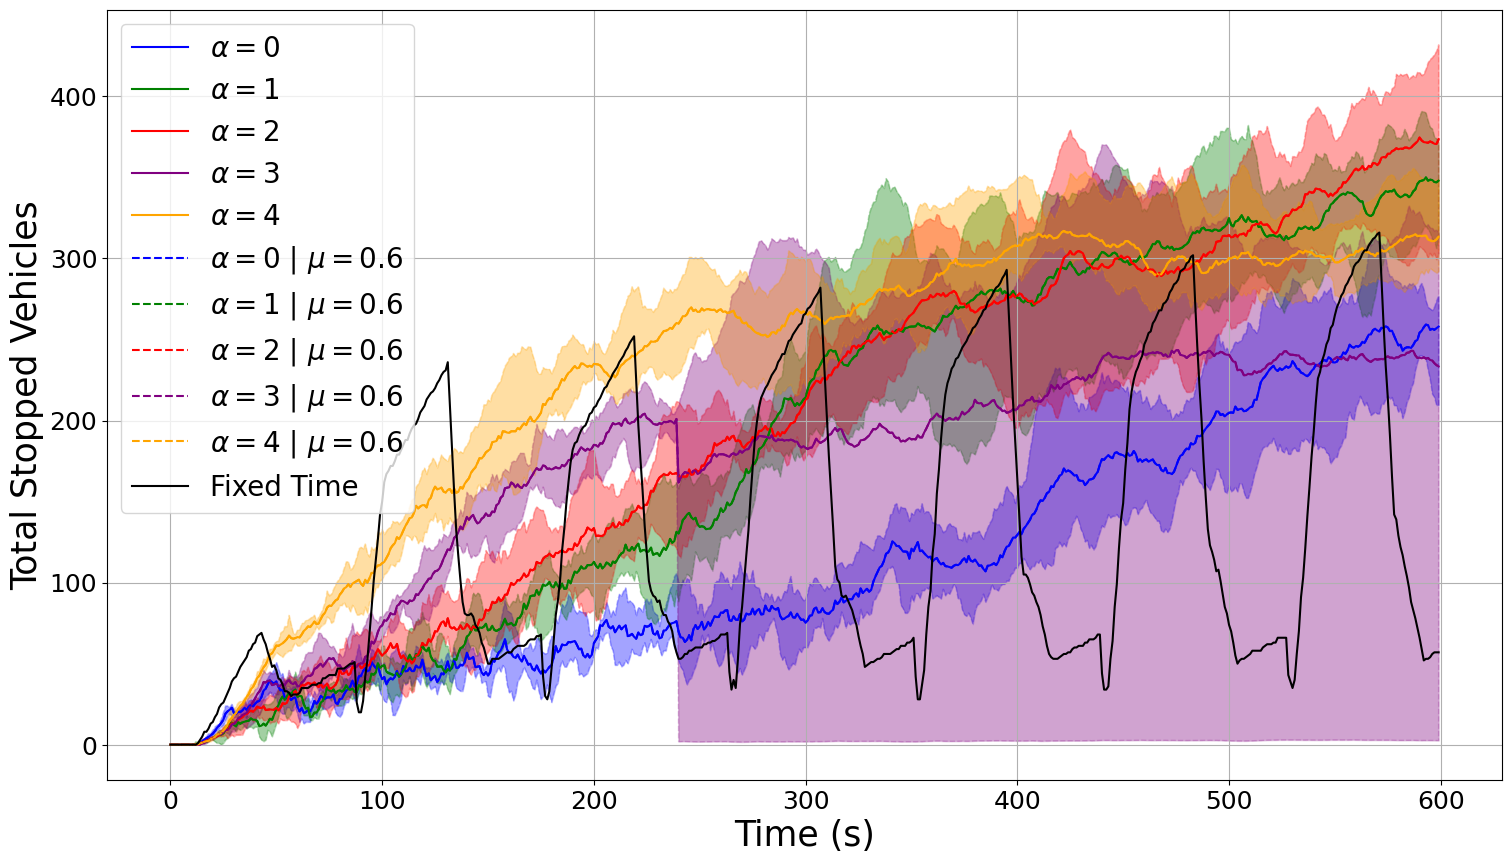
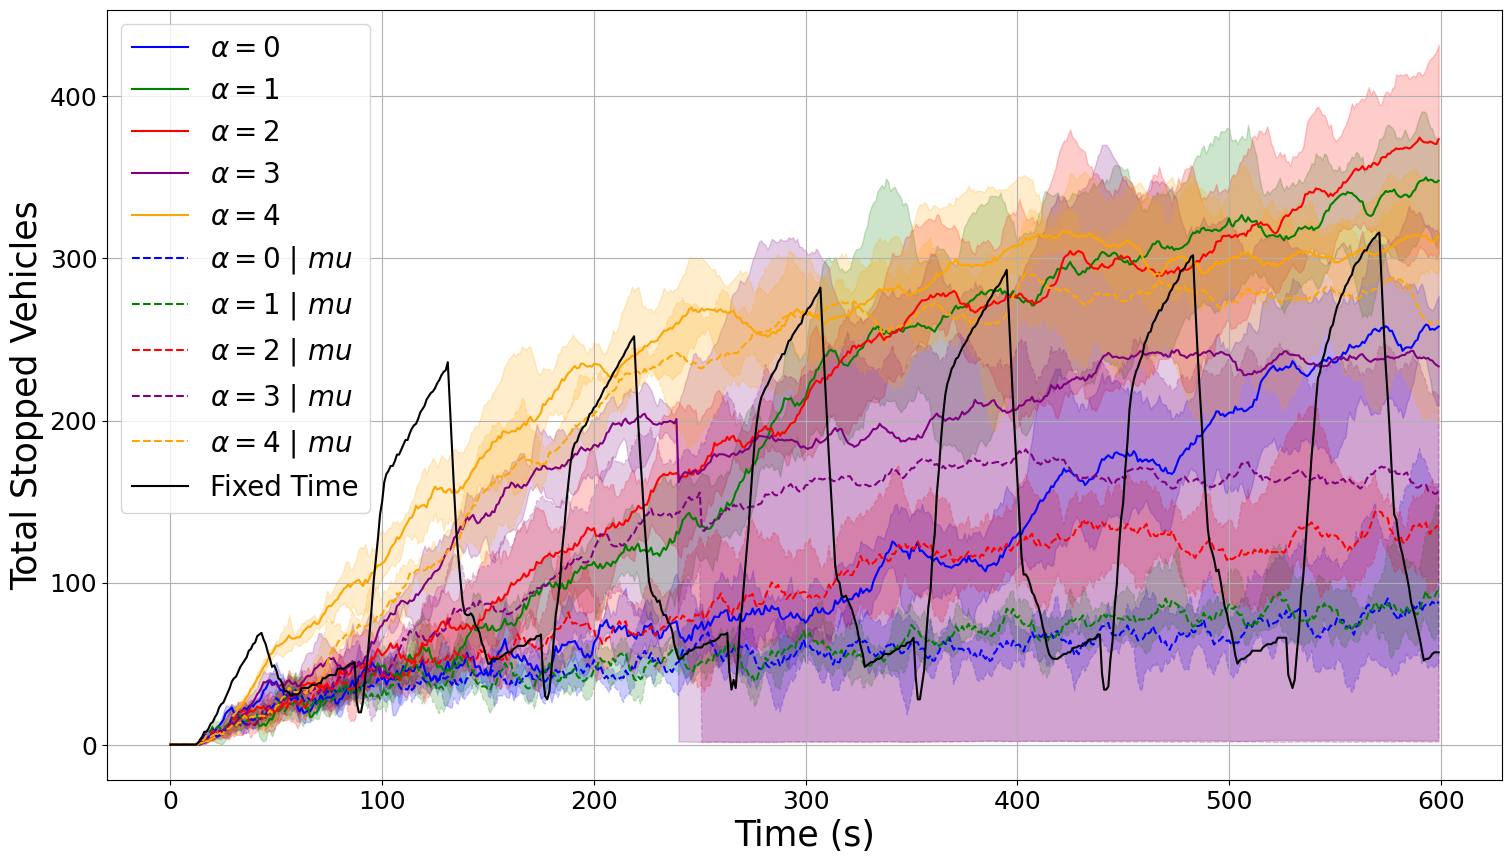
Update plotting scripts and images for improved data visualization and handling

diff --git a/plot.py b/plot.py
@@ -17,11 +17,11 @@ output_parent_path = os.path.dirname(output_path)
 if not os.path.exists(output_parent_path):
     os.makedirs(output_parent_path)
 attack_state = sys.argv[3]
-check_attribute = sys.argv[4]
-check_value = sys.argv[5]
+label = sys.argv[4]
 CWD = os.getcwd()
 DATA_PATH = os.path.join(CWD, f'{path_to_data}')
-DATA_PATH_NEW = os.path.join(CWD, f'{path_to_data}')
+data_new_path = str(DATA_PATH).replace("attacked", "no_attack")
+DATA_PATH_NEW = os.path.join(CWD, f'{data_new_path}')
 attribute_oi = "system_total_stopped"
 def pad_or_truncate(arr, target_length):
     if len(arr) > target_length:
@@ -41,7 +41,7 @@ if __name__ == '__main__':
     # Load and process the original data
     for a in alpha:
         for rep in range(reps):
-            file_name = 'data_{}_alpha_{}_run_{}.csv'.format(attack_state,a, rep)
+            file_name = 'data_{}_alpha_{}_run_{}.csv'.format("attacked",a, rep)
             file_path = os.path.join(DATA_PATH, file_name)
             if not os.path.isfile(file_path):
                 print(file_name)
@@ -57,8 +57,9 @@ if __name__ == '__main__':
     # Load and process the new data from the new folder
     for a in alpha:
         for rep in range(reps):
-            file_name = 'data_{}_alpha_{}_run_{}.csv'.format(attack_state,a, rep)
+            file_name = 'data_{}_alpha_{}_run_{}.csv'.format("no_attack",a, rep)
             file_path_new = os.path.join(DATA_PATH_NEW, file_name)
+            print(file_name)
             if not os.path.isfile(file_path_new):
                 print("sh",file_name)
                 continue
@@ -98,7 +99,7 @@ if __name__ == '__main__':
         lb_new = np.percentile(wt_new[a], 0.25, axis=0)
         ub_new = np.percentile(wt_new[a], 99.75, axis=0)
         mean_new = wt_new[a].mean(axis=0)
-        plt.plot(x_ax, mean_new, '--', color=colors[a], label=r'$\alpha=$'+'{} | $\{} = {}$'.format(a, check_attribute,check_value))
+        plt.plot(x_ax, mean_new, '--', color=colors[a], label=r'$\alpha=$'+'{} | ${}$'.format(a, label))
         plt.fill_between(x_ax, lb_new, ub_new, color=colors[a], alpha=0.2, linestyle='--')
 
     # Plot the fixed data

diff --git a/main.py b/main.py
@@ -26,6 +26,7 @@ from tqdm import tqdm
 
 
 parser = argparse.ArgumentParser()
+np.random.seed(110)
 # Command to run the file: python main.py --noise-added "True"
 script_directory = os.path.dirname(os.path.abspath(__file__))
 parser.add_argument('--net', type=str, default=script_directory + r"/net/4x4.net.xml")
@@ -35,7 +36,7 @@ parser.add_argument("--intersection-id", type=str, default="10")
 parser.add_argument("--num-episodes", type=int, default=5)
 parser.add_argument("--gui", type=bool, default=False)
 parser.add_argument("--noised-edge", type=str, default="CR30_LR_8")
-parser.add_argument("--simulation-time", type=int, default=200)
+parser.add_argument("--simulation-time", type=int, default=1200)
 parser.add_argument("--run-per-alpha", type=int, default=5)
 parser.add_argument("--delta-time", type=int, default=3)
 parser.add_argument("--nu", type=float, default=0.5)
@@ -57,6 +58,7 @@ if args.noise_added:
 else:
     attack_state = "no_attack"
 
+args.simulation_time /= args.delta_time
 # network to edges
 net_prefix = args.net.split('.')[0] + "_plain"
 os.system(f'netconvert -s {args.net} --plain-output-prefix {net_prefix}') # TODO if the net doesn't have . in the name, it will work

diff --git a/plot_all.py b/plot_all.py
@@ -10,6 +10,6 @@ is_windows = platform.system() == "Windows"
 # Loop to run the script with different nu values
 folder_oi = "/Users/cavelab/Documents/Github/FRITS-Backup/output/i4-cyber_attack/rl/without_frl/attacked/off-peak"
 for folder in glob(folder_oi + "/*"):
-    if folder.split("/")[-1].startswith("omega_") and "nu" not in folder.split("/")[-1]:
-        omega = folder.split("/")[-1].split("_")[1]
-        os.system(f"python3 plot.py '{folder}' 'img/omega/plot_omega_{omega}.png' 'attacked' 'omega' '{omega}'")
+    if folder.split("/")[-1].startswith("nu_") and "nu":
+        mu = folder.split("/")[-1].split("_")[1]
+        os.system(f"python3 plot.py '{folder}' 'img/mu/plot_mu_{mu}.png' 'attacked' 'mu' '{mu}'")
